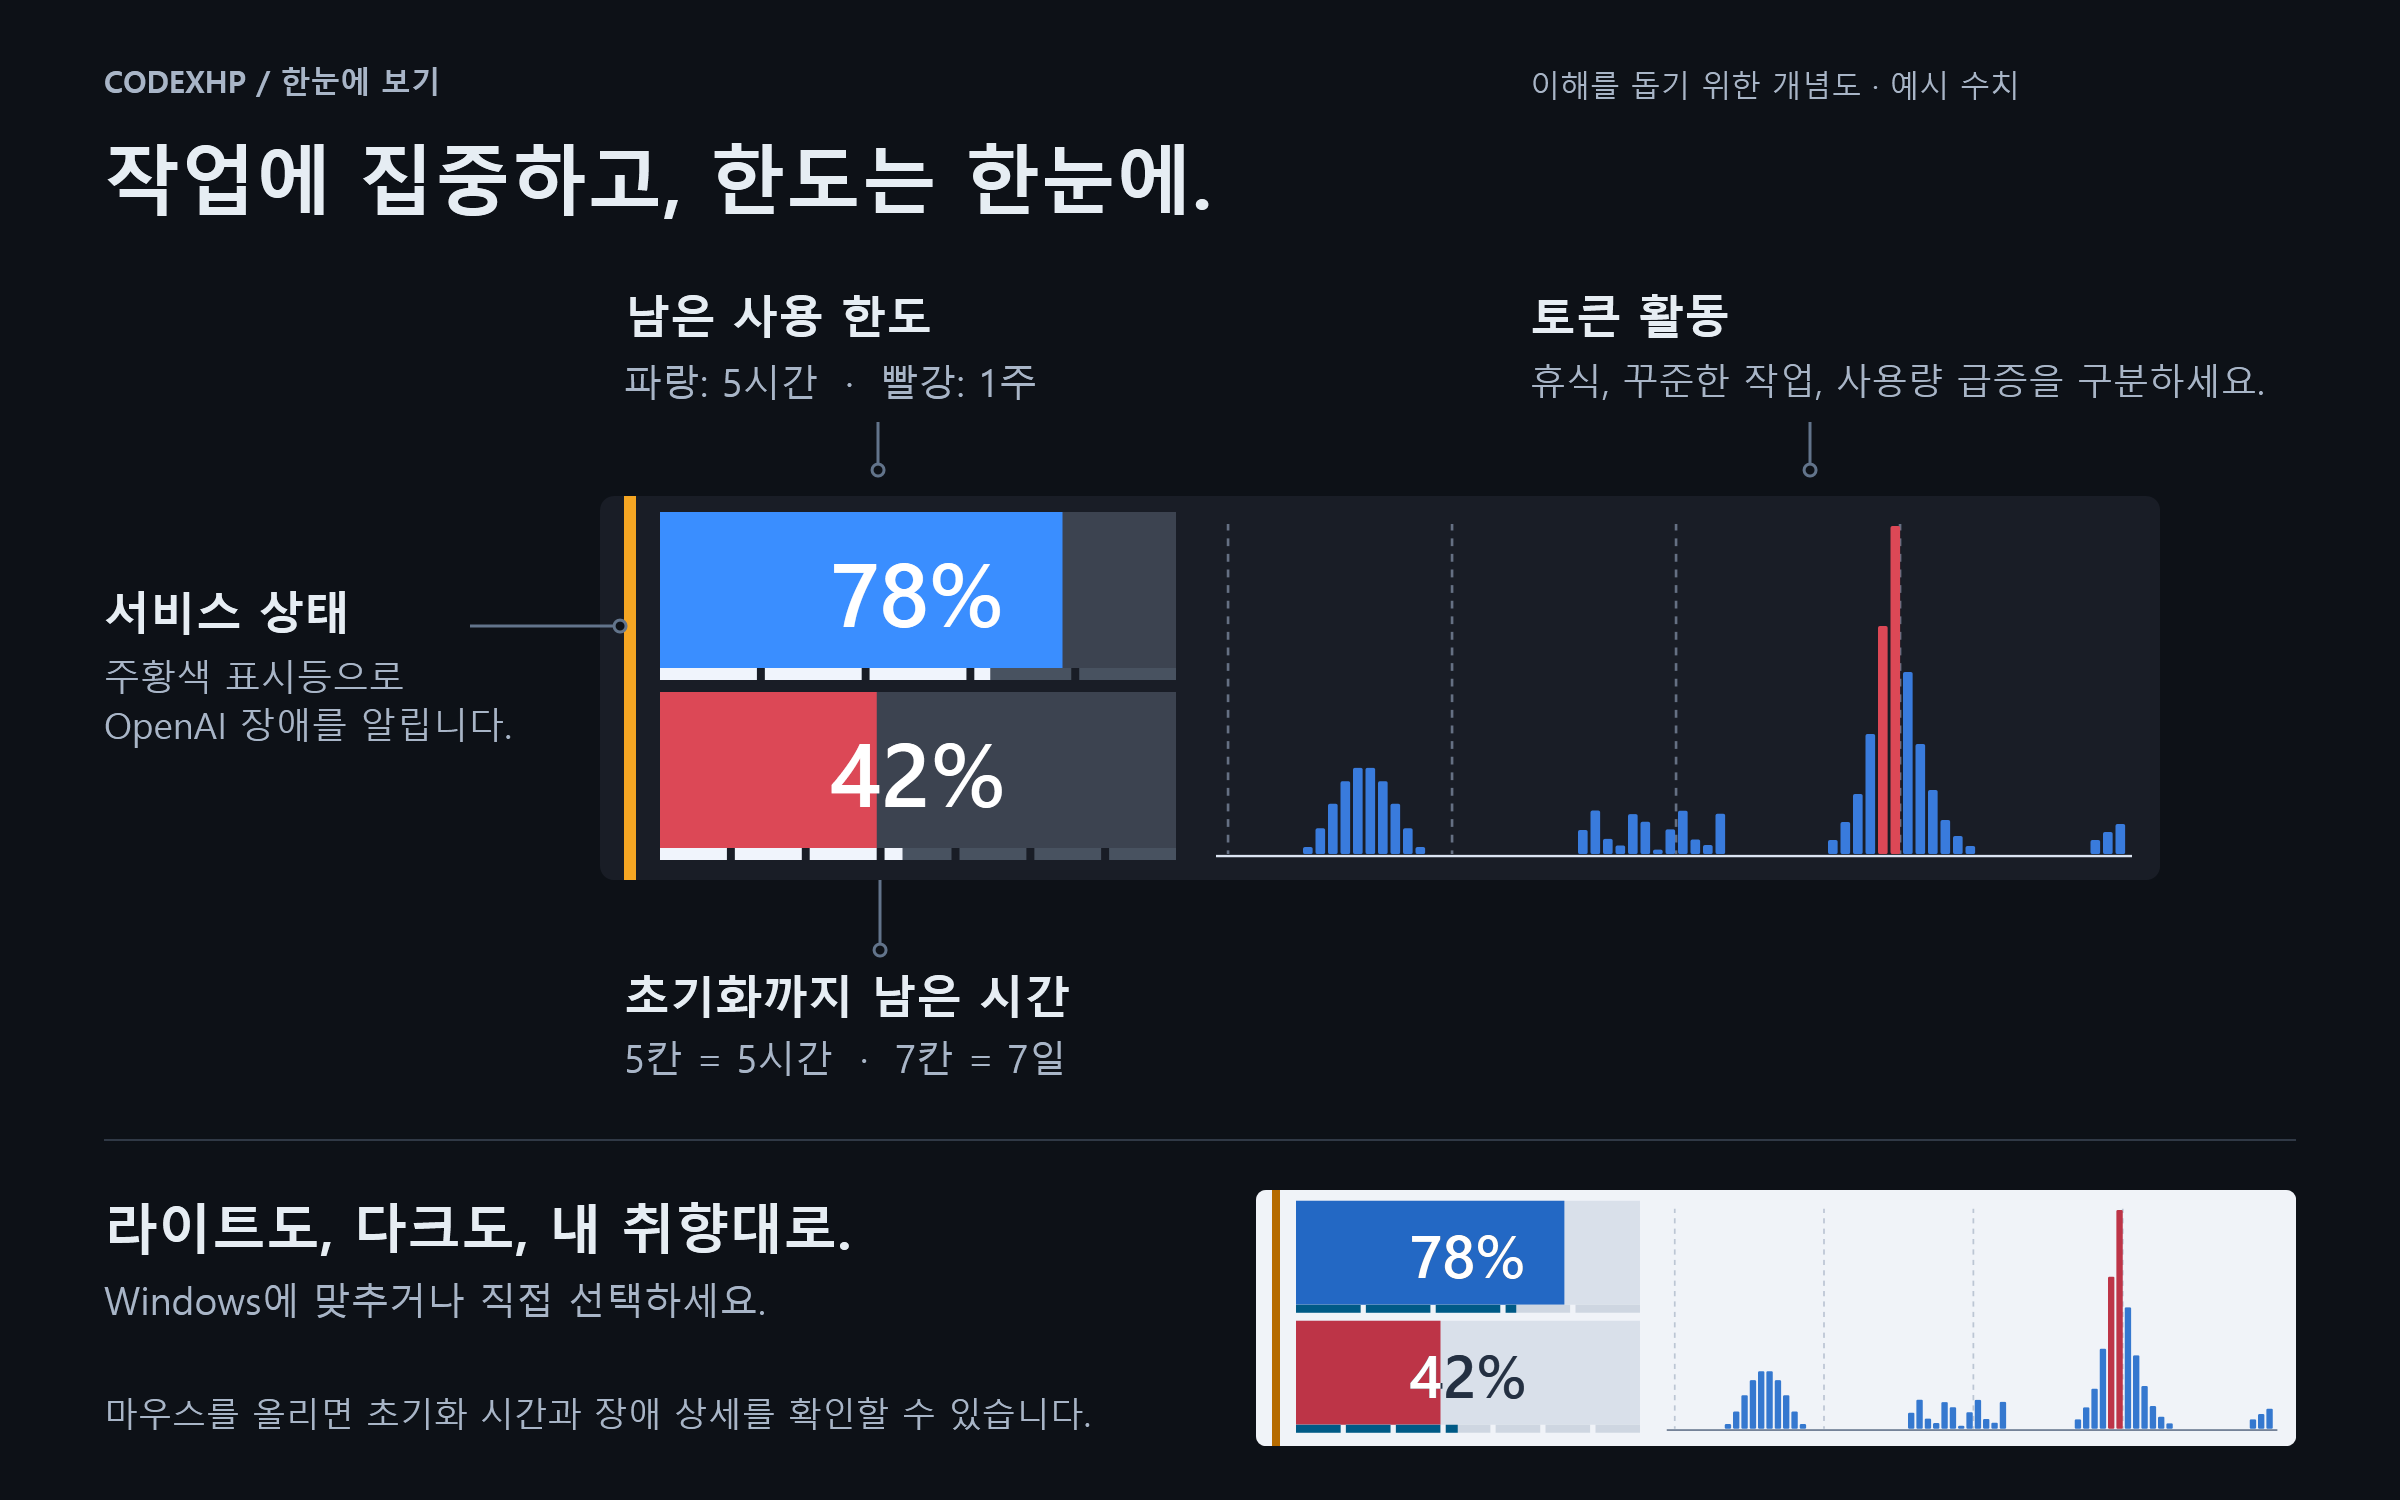
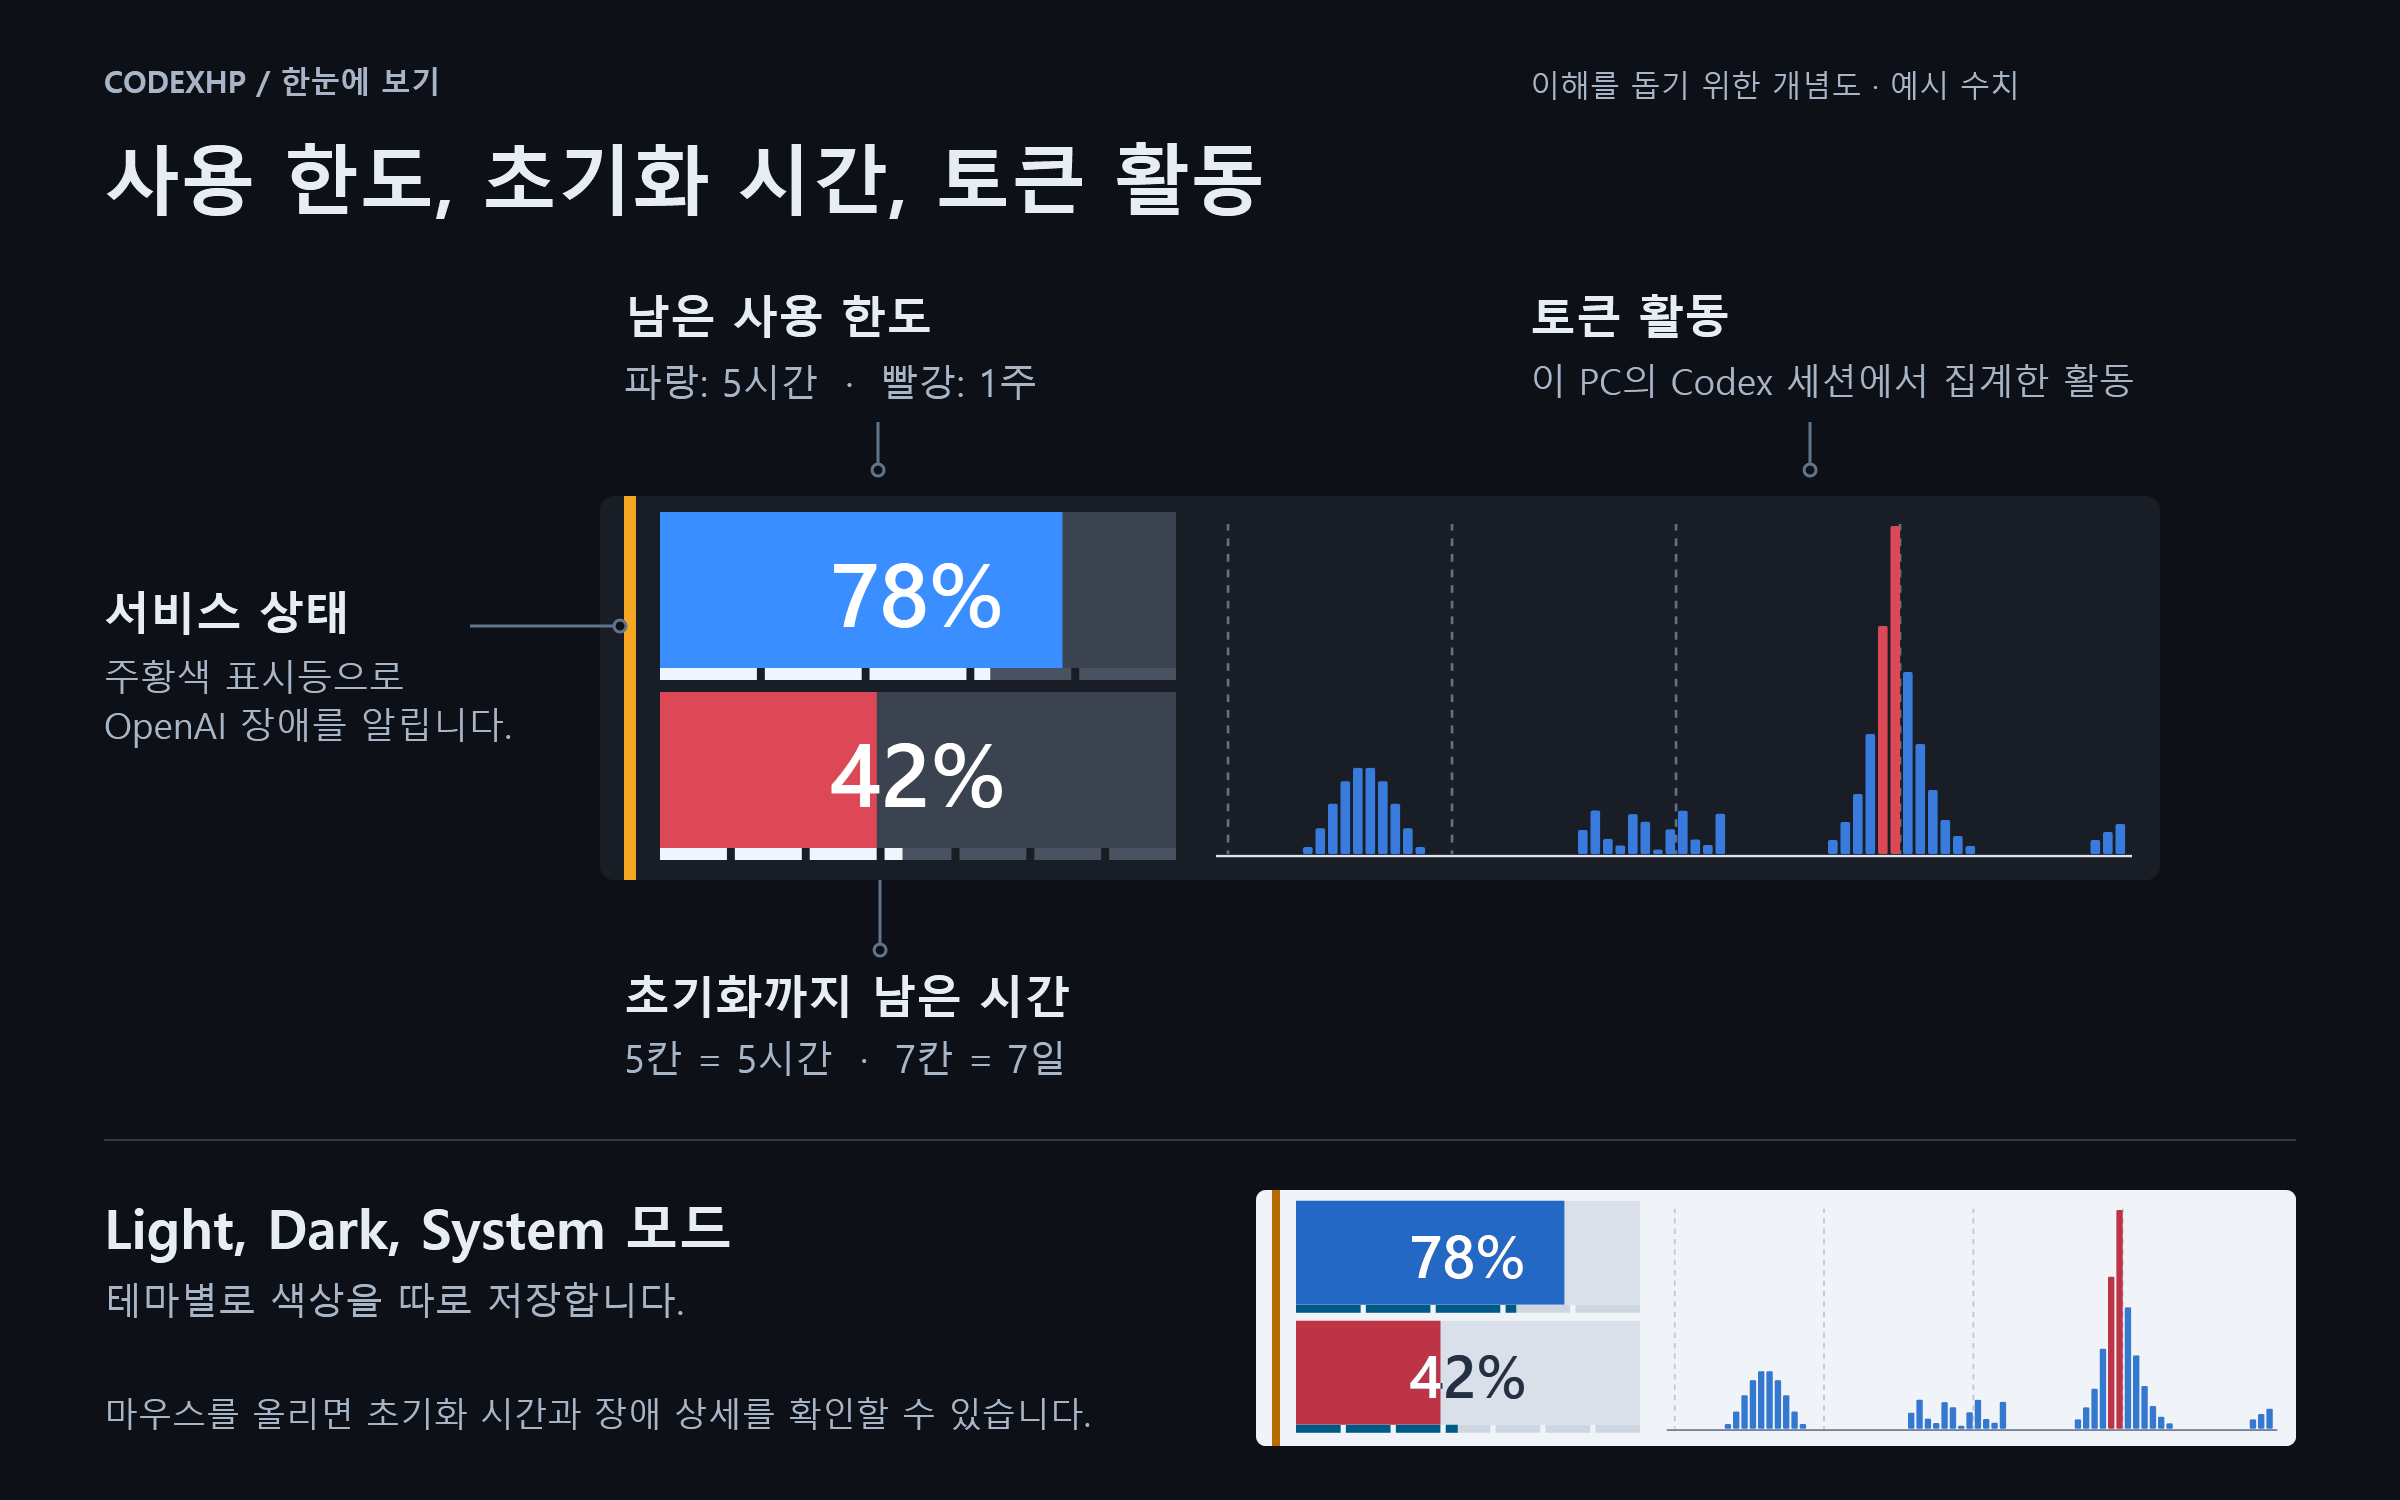
Refresh README with reset credits and current UI captures

Changed region(s): [[0.0312, 0.092, 0.5312, 0.1533], [0.0312, 0.7973, 0.3438, 0.8893], [0.625, 0.2453, 0.9375, 0.276]]

diff --git a/README.md b/README.md
@@ -2,11 +2,13 @@
 
 [한국어](README.ko.md)
 
-**See your Codex usage limits and recent token activity at a glance—right on the Windows 11 taskbar.**
+**Codex usage limits and token activity on the Windows 11 taskbar.**
 
-CodexHp is a compact taskbar overlay for people who use Codex in the ChatGPT desktop app on Windows 11. Without opening another window, you can see what remains in your 5-hour and weekly limits, when they reset, recent activity from local Codex sessions, and OpenAI service status.
+CodexHp is a small Windows overlay for Codex. It shows remaining usage limits, reset countdowns, and a graph of local token activity without opening a separate window. You can also view your available reset credits (banked resets) and when they expire. Keep it on the taskbar or place it elsewhere on your desktop.
 
-![Windows 11 taskbar captures with example usage of 100% remaining for 5H and 70% for Week: normal operation with the weekly reset tooltip repositioned above the taskbar for clarity, alongside a simulated service incident with an orange stripe and affected-service details.](docs/assets/readme/codexhp-taskbar.png)
+![CodexHp on the Windows taskbar: normal operation with a weekly reset countdown above the overlay, and a service issue with an orange indicator and details grouped under APIs and Codex.](docs/assets/readme/codexhp-taskbar.png)
+
+*Actual app captures with simulated usage and service status. The tooltip appears when you hover over the overlay.*
 
 **[Get the latest release](https://github.com/netics01/CodexHp/releases/latest)**
 
@@ -14,34 +16,40 @@ CodexHp is a compact taskbar overlay for people who use Codex in the ChatGPT des
 
 ## Codex usage at a glance
 
-Keep your attention on the work—not on finding the usage page. See what's left in your limits, when they reset, and how your recent token activity adds up.
+The gauge panel shows your **remaining** 5-hour and weekly limits. Thin reset gauges below the bars are divided into five hours and seven days. The graph panel shows token activity over time from Codex sessions on this PC; it is not an account-wide usage or billing total.
 
 ![Conceptual guide to CodexHp: blue 5-hour and red weekly remaining-limit bars, reset gauges divided into five hours and seven days, a local token activity graph, and an orange OpenAI service-issue indicator. Dark and light appearances are illustrated with example values.](docs/assets/readme/codexhp-at-a-glance.png)
 
-Hover over the overlay for reset countdowns and, during an incident, affected service details. Choose **Light**, **Dark**, or **System** in Settings to match your Windows setup.
+Hover for the weekly reset countdown and, when the 5-hour limit is below 100% remaining, its countdown too. The tooltip is placed above or below the overlay so it does not cover the gauges. An orange indicator marks an OpenAI service issue; the tooltip lists affected services by product.
+
+The upper gauge can instead show **banked resets**: the number of available reset credits and the time until the next known expiry. Select **Settings → General → Upper bar → Banked resets**. The weekly gauge and activity graph remain visible.
+
+![Simulated banked-reset view: a red ticket marked 3 and 2d above the weekly gauge; its tooltip lists three available credits and the two nearest expiry dates.](docs/assets/readme/codexhp-reset-credits.png)
+
+*Simulated reset credits. Hover to see the two nearest expiry times in your local time zone. CodexHp displays this information; it does not redeem credits. Availability depends on your account.*
 
 ## Put it anywhere. Make it yours.
 
 ![Conceptual guide to placing CodexHp on the taskbar or anywhere on the desktop, choosing colors, and independently adjusting overlay and element dimensions](docs/assets/readme/codexhp-placement.png)
 
-| No. | Make it yours |
+| No. | Setting |
 | --- | --- |
-| **1** | Keep CodexHp on the Windows taskbar for a native-feeling, at-a-glance display |
-| **2** | Drag it to any position on any connected display when the taskbar is not the best fit |
-| **3** | Tune the gauge colors, overlay dimensions, graph density, and status indicator to suit your setup |
+| **1** | Place the overlay on the Windows taskbar |
+| **2** | Move it to a position on any connected display |
+| **3** | Adjust colors, overlay and gauge dimensions, graph density, and the status indicator |
 
-Open **Overlay Position** in Settings and drag the outlined overlay to place it. Use **Colors** and **Appearance** to make the display fit your taskbar, monitor, and taste.
+Open **Overlay Position** in Settings and drag the outlined overlay to place it. **Colors** offers **Light**, **Dark**, and **System** modes, with colors saved separately for each theme. **Appearance** controls the size of the overlay and its individual elements.
 
 ## Fits your Windows setup
 
-CodexHp keeps saved placement usable across monitor bounds, taskbar layouts, and DPI scales, then gives you control over how and when it appears.
+CodexHp adjusts saved placement for monitor bounds, taskbar layouts, and DPI changes. You can also choose when it is visible.
 
 - Starts with Windows by default when installed, and preserves your choice during upgrades.
 - Can stay visible all the time or appear only while ChatGPT is running.
 - Hides automatically when a full-screen app is active on the same monitor.
 - Opens settings when you double-click the overlay or click its notification-area icon.
 
-> Once CodexHp becomes part of your Windows setup, you may wonder how you ever used Codex without it.
+CodexHp checks GitHub for a newer stable release at startup and every seven days while running. When one is available, **Update available** appears in the tray menu and **Update ↗** appears in Settings. Both open the release page; nothing is downloaded or installed automatically.
 
 ## Install
 
@@ -69,11 +77,13 @@ CodexHp is built for the Codex experience in the ChatGPT desktop app. It does no
 
 ## Why the name CodexHp?
 
-“HP” comes from health bars in games. When you use Codex frequently, the remaining limit can feel like a resource you need to watch. The name is playful, but the goal is practical—one glance shows whether you can keep going or should pace yourself until the next reset.
+“HP” comes from health bars in games. CodexHp uses a similar visual shorthand for your remaining usage limit. In reset-credit mode, the ticket uses the weekly gauge's color to connect the credit with the limit it can replenish.
 
 ## Data and privacy
 
 CodexHp reads the existing Codex authentication cache from `%CODEX_HOME%\auth.json` or `%USERPROFILE%\.codex\auth.json` and local Codex activity data. It uses the cached token only to request Codex usage data from `chatgpt.com`.
+
+It also requests public service-status data from `status.openai.com` and release information from GitHub. Those requests do not include your Codex authentication token.
 
 CodexHp does not perform sign-in, store the authentication token in its settings or logs, or send it to a separate server operated by the CodexHp developer. It relies on a non-public usage endpoint and local activity formats that may change without notice; CodexHp can stop working if they do. If credential handling is a concern, review the source and release checksums before using the app.
 
@@ -82,14 +92,17 @@ CodexHp does not perform sign-in, store the authentication token in its settings
 Development requires the .NET 10 SDK pinned by `global.json`. Inno Setup 6 is required only to build the installer.
 
 ```powershell
-pwsh -NoProfile -File .\scripts\Run-Development.ps1
 pwsh -NoProfile -File .\scripts\Verify-Core.ps1
-pwsh -NoProfile -File .\scripts\Build-Installer.ps1
+.\out\win-x64\CodexHp.exe
 ```
 
-The development publish is written to `out\win-x64`, and installer output is written to `out\installer`. Both are intentionally untracked. For maintainers, official release assets are built only by this local command; GitHub Actions remains an independent CI check and does not create a second set of binaries.
+`Verify-Core.ps1` builds, tests, and publishes the development executable to `out\win-x64`. Exit any running CodexHp instance before launching it. To build an installer, run `pwsh -NoProfile -File .\scripts\Build-Installer.ps1`; its output goes to `out\installer`. Both output directories are untracked.
 
 Regular local builds identify themselves as **CodexHp-Dev** in About. The official build created by the release command identifies itself as **CodexHp**.
+
+Development builds also include an isolated [simulation tool](docs/development-simulation.md) for sample usage, reset credits, service incidents, and update notifications. It is not included in official downloads.
+
+For maintainers, official release assets are built only by the following local command. GitHub Actions runs independent CI checks and does not create a second set of release binaries.
 
 ```powershell
 pwsh -NoProfile -File .\scripts\Publish-LocalRelease.ps1 -AllowUnsignedRelease
